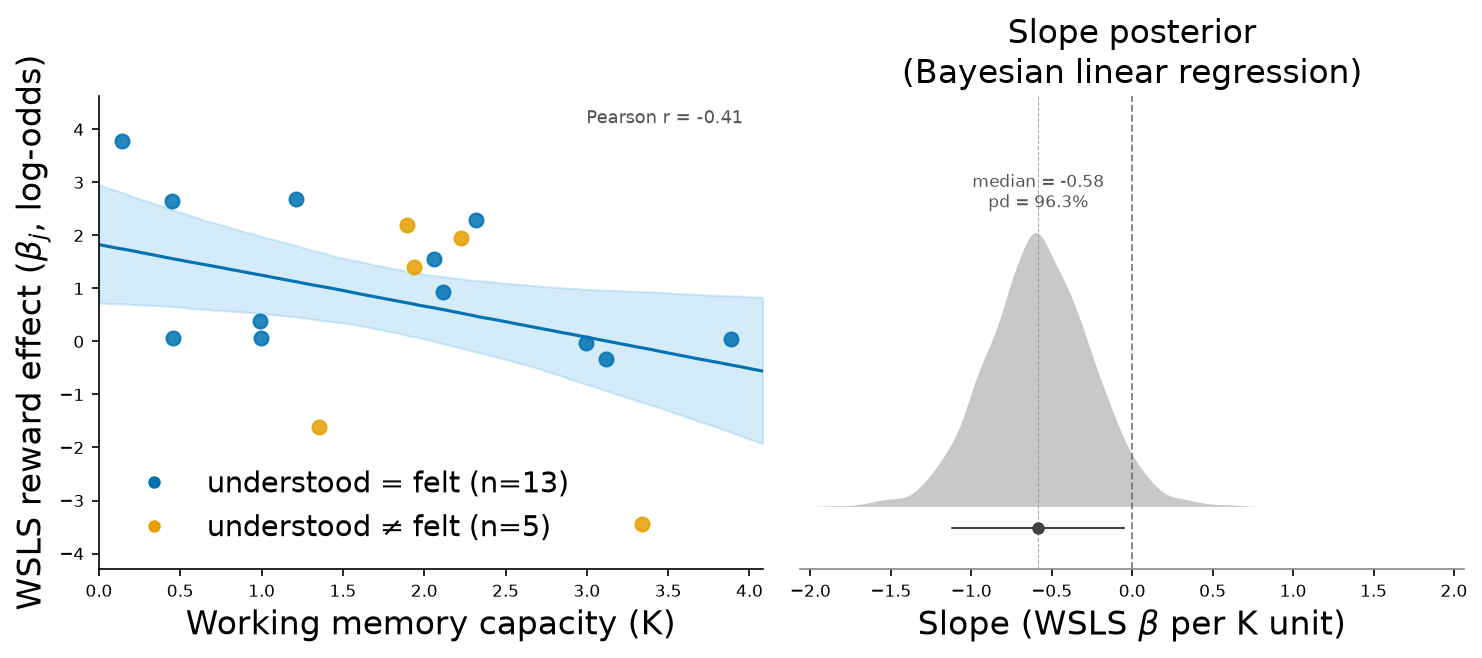
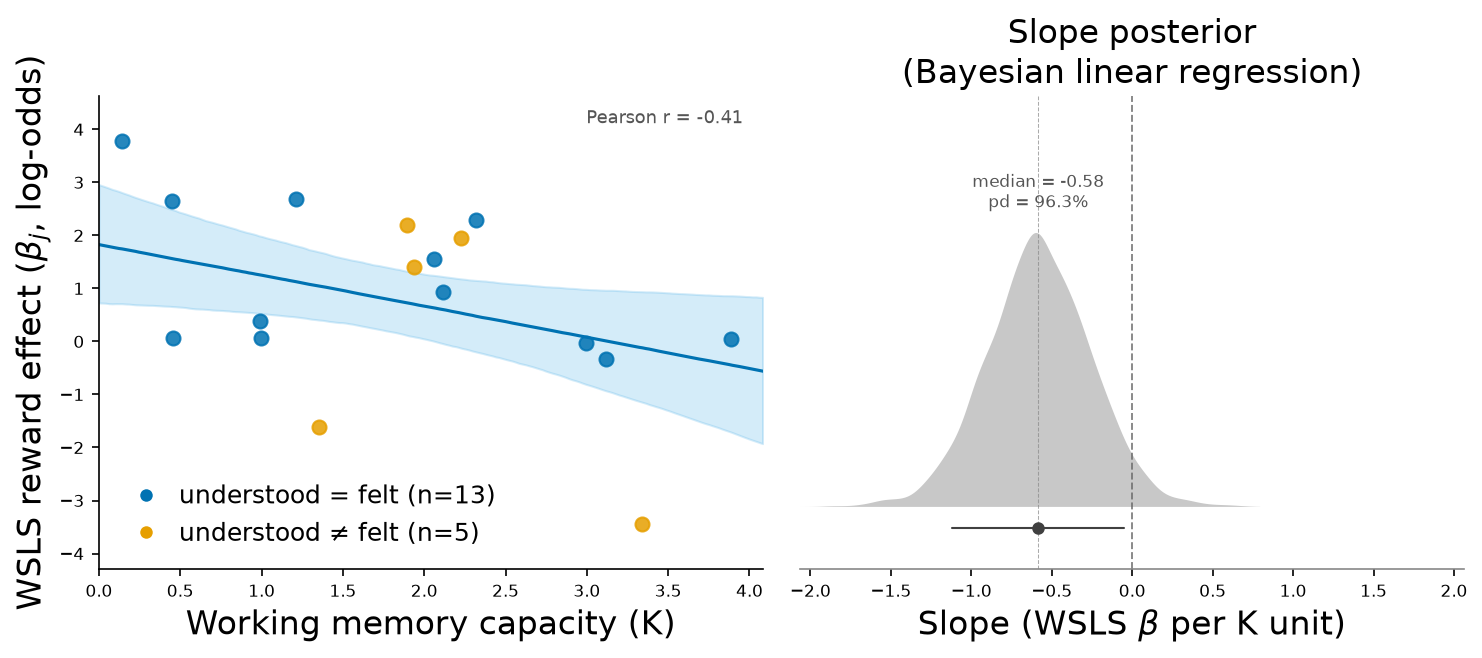
WM-WSLS: legend font 12, tighten marker-text gap
Claude-Session: https://claude.ai/code/session_012x9xnxMCjZRKf3pY757v2o

Changed region(s): [[0.0931, 0.6991, 0.4035, 0.8207]]

diff --git a/analysis/wm_wsls/wm_wsls.py b/analysis/wm_wsls/wm_wsls.py
@@ -222,8 +222,8 @@ def scatter_plot(wm_k, wsls_beta, colors, idata, wm_k_z):
         Line2D([0], [0], marker="o", color="w", markerfacecolor=COL_NO,
                markersize=7, label="understood ≠ felt (n=5)"),
     ]
-    ax_sc.legend(handles=legend_els, fontsize=14, loc="lower left",
-                 framealpha=0.8, edgecolor="none")
+    ax_sc.legend(handles=legend_els, fontsize=12, loc="lower left",
+                 framealpha=0.8, edgecolor="none", handletextpad=0.3)
 
     ax_sc.set_xlabel("Working memory capacity (K)", fontsize=16)
     ax_sc.set_ylabel(r"WSLS reward effect ($\beta_j$, log-odds)", fontsize=16)
